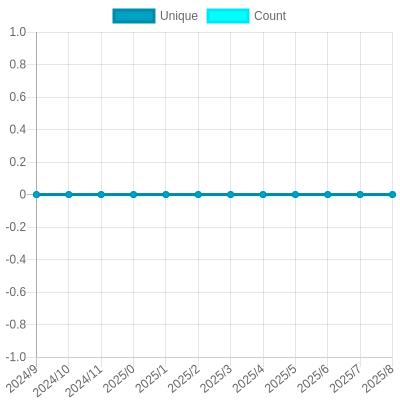
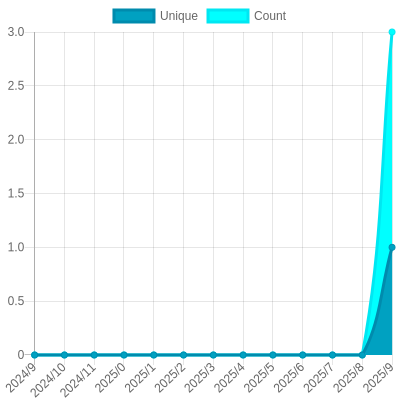
Update views

diff --git a/README.md b/README.md
@@ -26,7 +26,7 @@ The project created and maintained by [gayanvoice](https://github.com/gayanvoice
 			</a>
 		</td>
 		<td>
-			2024/9/29 3:21 PM UTC
+			2024/9/30 3:21 PM UTC
 		</td>
 		<td>
 			0
@@ -37,7 +37,7 @@ The project created and maintained by [gayanvoice](https://github.com/gayanvoice
 	</tr>
 </table>
 
-<small><i>Last updated on 2024/10/1 6:20 PM UTC</i></small>
+<small><i>Last updated on 2024/10/2 1:11 AM UTC</i></small>
 
 ## ✂Copy and 📋 Paste
 ### Total Views Badge

diff --git a/readme/853646642/year.md b/readme/853646642/year.md
@@ -20,6 +20,17 @@
 	</tr>
 	<tr>
 		<td>
+			<code>2024/10/1</code>
+		</td>
+		<td>
+			<code>1</code>
+		</td>
+		<td>
+			<code>3</code>
+		</td>
+	</tr>
+	<tr>
+		<td>
 			<code>2024/9/1</code>
 		</td>
 		<td>
@@ -153,7 +164,7 @@
 </table>
 
 </details>
-<small><i>Last updated on 2024/10/1 6:20 PM UTC</i></small>
+<small><i>Last updated on 2024/10/2 1:11 AM UTC</i></small>
 
 ## ✂Copy and 📋 Paste
 ### SVG Badge
